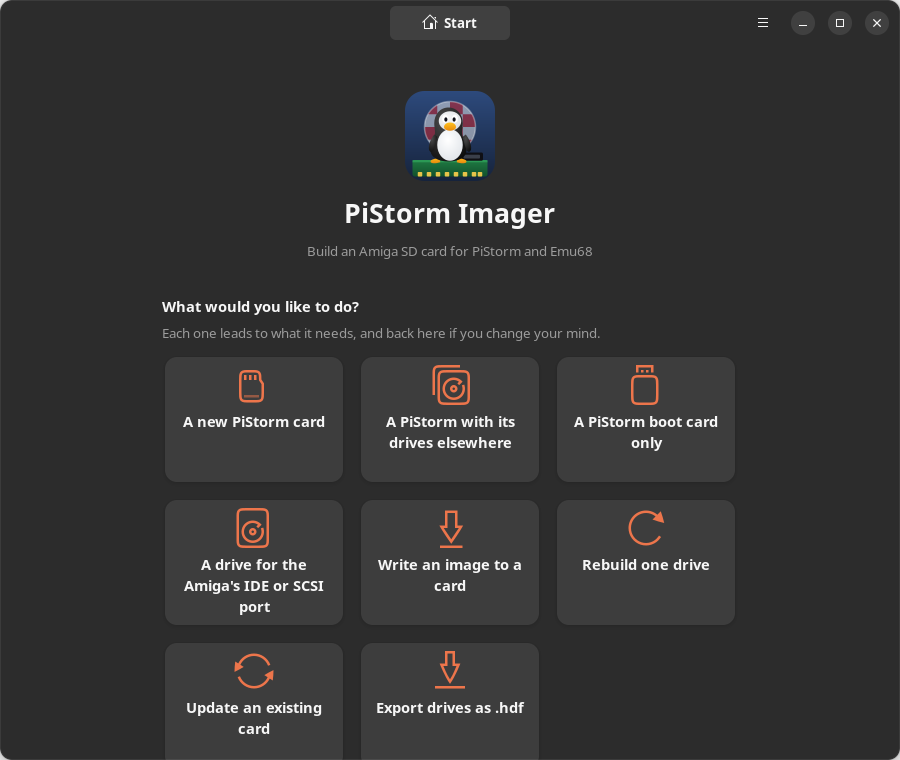
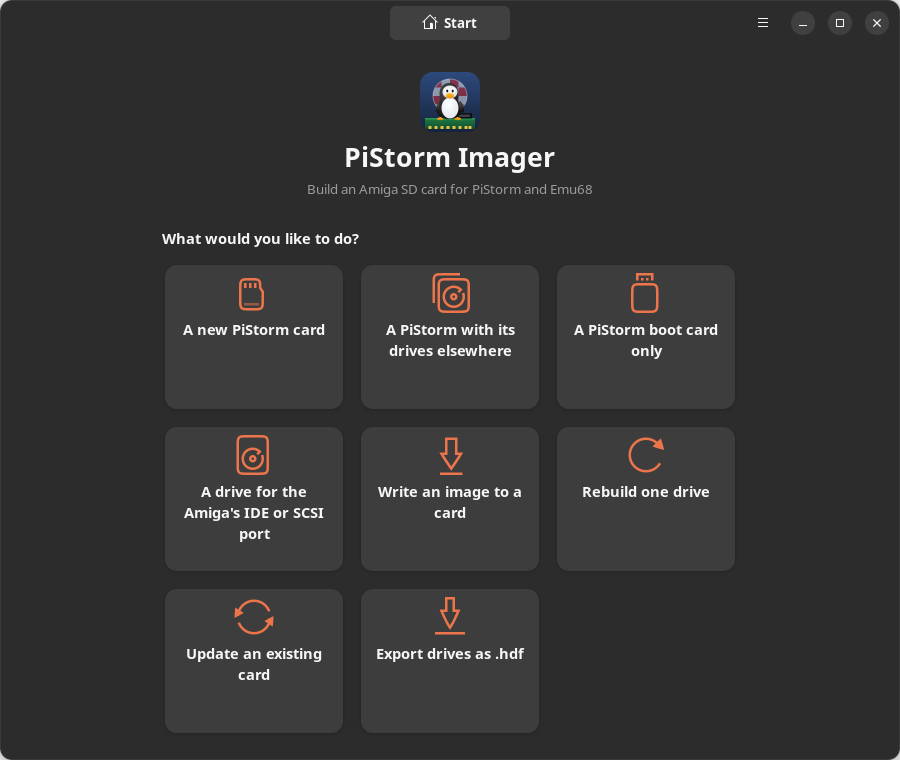
Move the front screen up so the task grid fits a smaller screen
A 64px icon in place of 96, no margin above or below the banner, and no
line under the heading - each tile says what it does in its tooltip.

diff --git a/pistorm_imager/ui/window.py b/pistorm_imager/ui/window.py
@@ -865,12 +865,14 @@ class ImagerWindow(Adw.ApplicationWindow):
         #  to the top of it. The page was three rows and then a great deal of
         #  nothing, which read as though something had failed to load.
         banner = Adw.PreferencesGroup()
-        hero = Gtk.Box(orientation=Gtk.Orientation.VERTICAL, spacing=10,
+        #  Kept compact so the whole grid of tasks fits on a small screen
+        #  without scrolling.
+        hero = Gtk.Box(orientation=Gtk.Orientation.VERTICAL, spacing=4,
                        halign=Gtk.Align.CENTER)
-        hero.set_margin_top(18)
-        hero.set_margin_bottom(12)
+        hero.set_margin_top(0)
+        hero.set_margin_bottom(0)
         icon = Gtk.Image.new_from_icon_name("pistorm-imager")
-        icon.set_pixel_size(96)
+        icon.set_pixel_size(64)
         #  The installed application icon if the desktop has it, and a stock
         #  one if this is running from a checkout that has never installed it.
         if not Gtk.IconTheme.get_for_display(
@@ -890,12 +892,9 @@ class ImagerWindow(Adw.ApplicationWindow):
 
         #  The things anyone actually wants to do, rather than a page of
         #  settings that happens to be first.
-        choices = Adw.PreferencesGroup(
-            title="What would you like to do?",
-            #  Nothing is below it any more - this screen is the choice
-            #  and nothing else - so it can no longer promise settings here.
-            description="Each one leads to what it needs, and back here if "
-                        "you change your mind.")
+        #  No description under the heading: each tile says what it does
+        #  in its tooltip, and the line cost a row on a small screen.
+        choices = Adw.PreferencesGroup(title="What would you like to do?")
         #  A grid of tiles, each one the whole of its task: a row apiece with
         #  a Start button at the end was a long column of identical buttons
         #  with the thing being chosen at the other side of the window.
